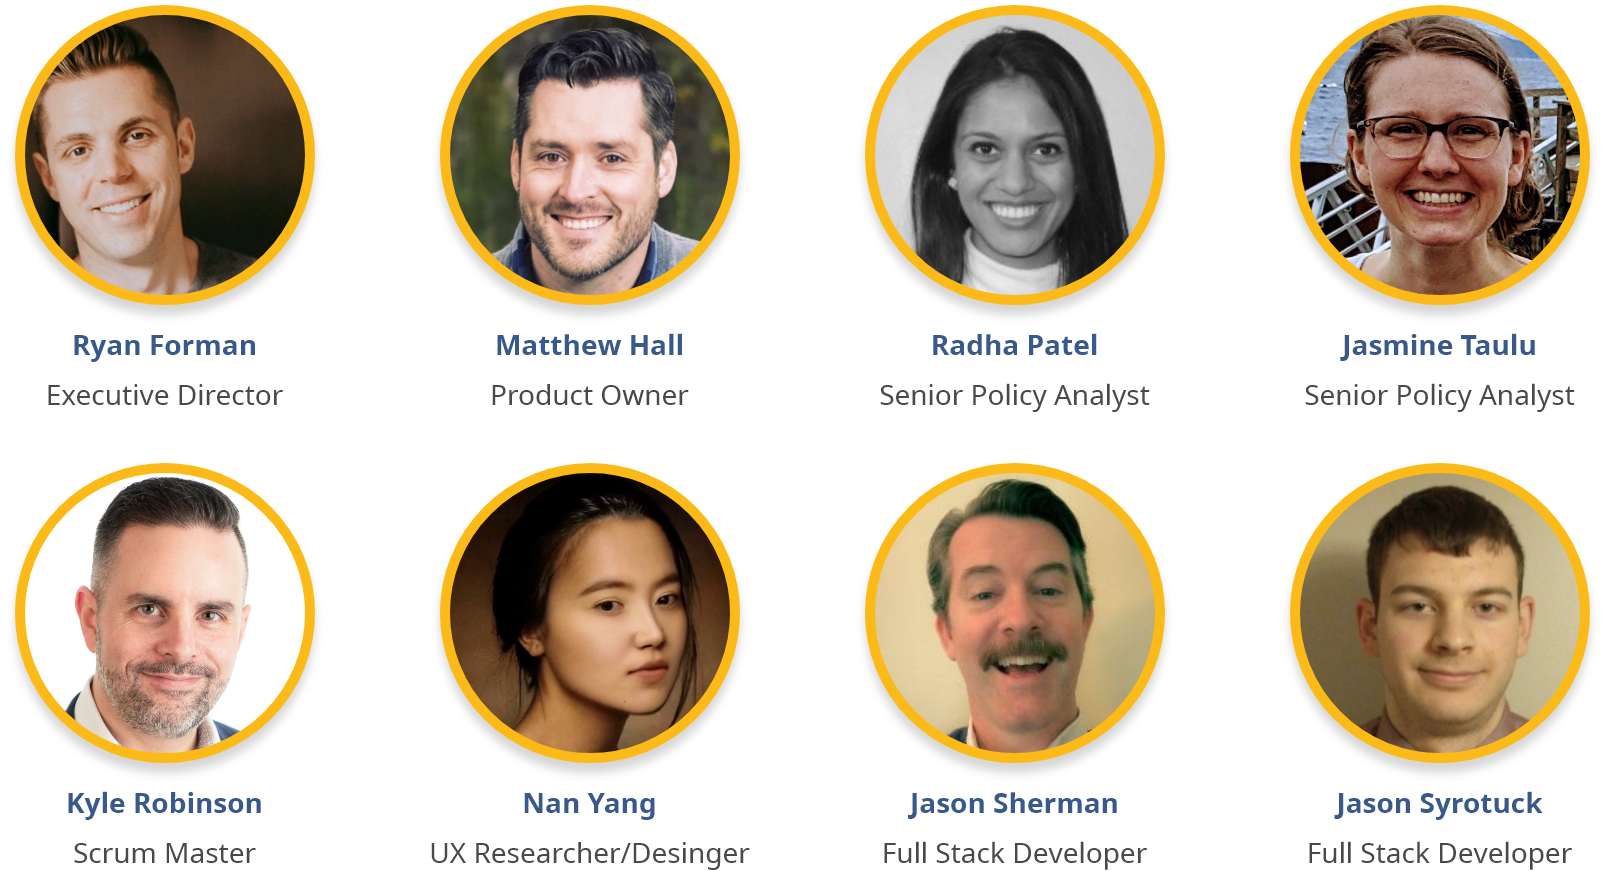
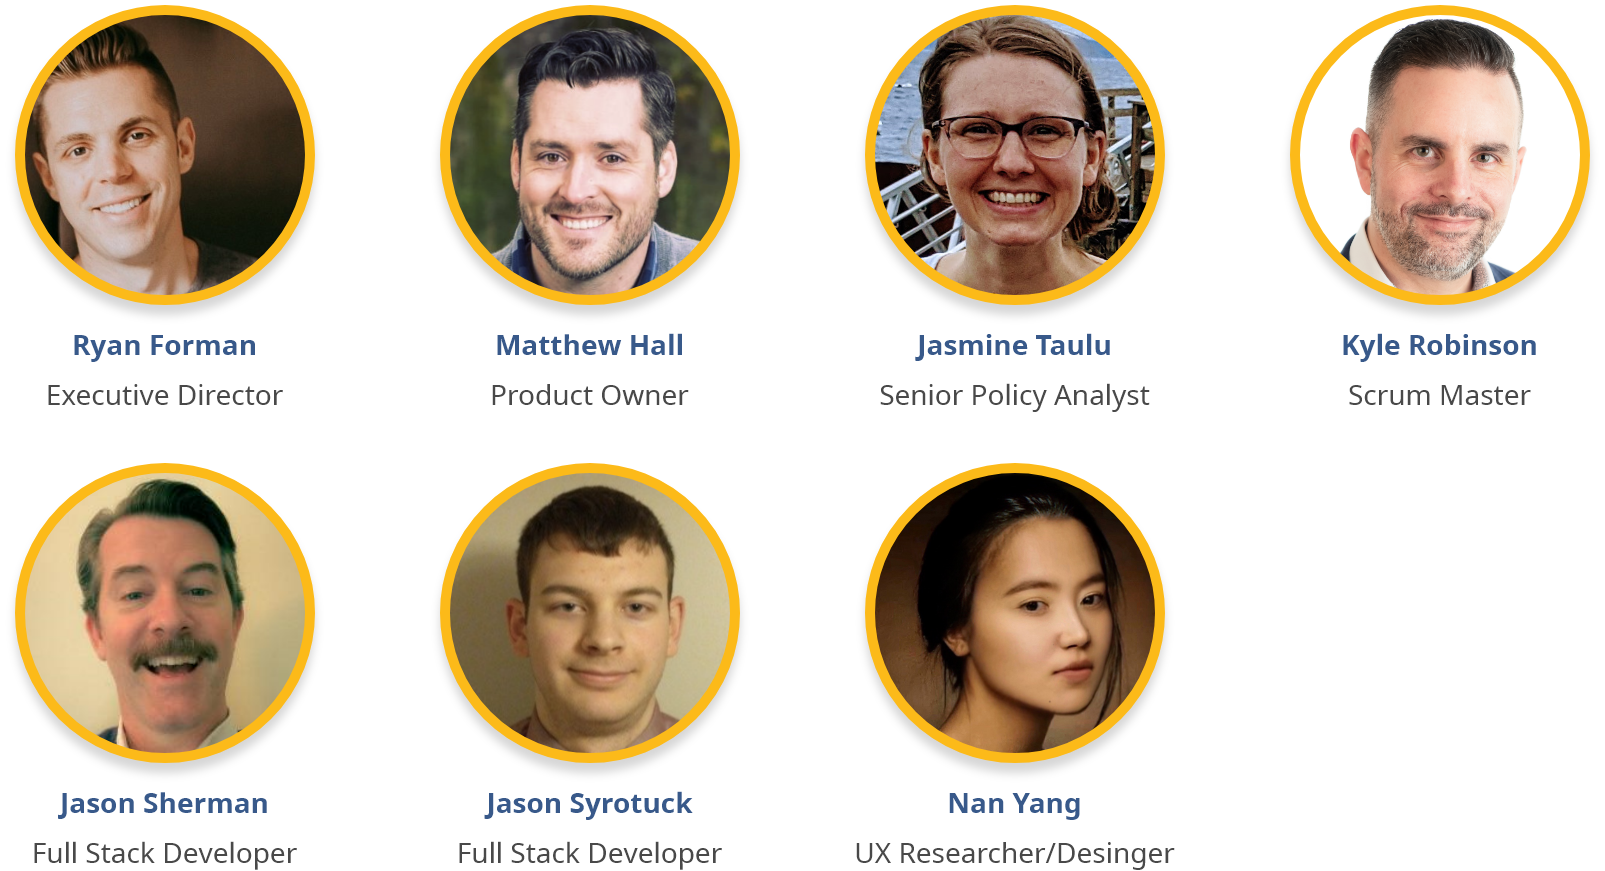
Fix typos and remove Radha from the team profile as requested

diff --git a/docs/_site/access.html b/docs/_site/access.html
@@ -101,10 +101,10 @@
   <li><a href="mailto:MinesDigitalTrust@gov.bc.ca?subject=Request Access to BPA">Email us now</a></li>
 </ul>
 
-<p><strong>Step 3. We will perform a mannual identity check with the information you provide. Once it’s completed, you will soon receive an email from us with:</strong></p>
+<p><strong>Step 3. We will perform a manual identity check with the information you provide. Once it’s completed, you will soon receive an email from us with:</strong></p>
 <ul>
   <li>A QR code invitation to connect your personal wallet with the Mines Digital Trust Team BPA (issuer of the Access VC)</li>
-  <li>An URL for you to log into your organization’s BPA when you receive the Access AC</li>
+  <li>A URL for you to log into your organization’s BPA when you receive the Access AC</li>
   <li>What to expect next</li>
 </ul>
 

diff --git a/docs/access.md b/docs/access.md
@@ -19,9 +19,9 @@ description: The Business Partner Agent (BPA) is software run by an organization
 - What credentials you want to issue or verify, and who grants you the authority
 - <a href="mailto:MinesDigitalTrust@gov.bc.ca?subject=Request Access to BPA">Email us now</a>
 
-**Step 3. We will perform a mannual identity check with the information you provide. Once it's completed, you will soon receive an email from us with:**
+**Step 3. We will perform a manual identity check with the information you provide. Once it's completed, you will soon receive an email from us with:**
 - A QR code invitation to connect your personal wallet with the Mines Digital Trust Team BPA (issuer of the Access VC)
-- An URL for you to log into your organization's BPA when you receive the Access AC
+- A URL for you to log into your organization's BPA when you receive the Access AC
 - What to expect next
 
 **Step 4. Scan the QR code from your personal wallet and accept the connection invitation.**
